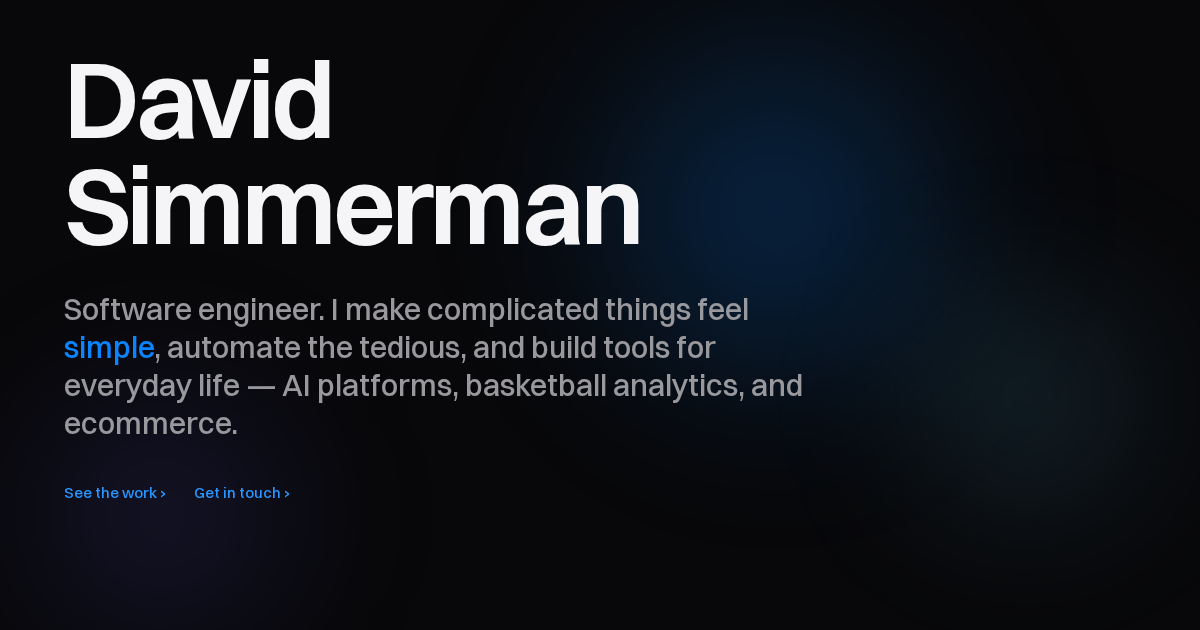
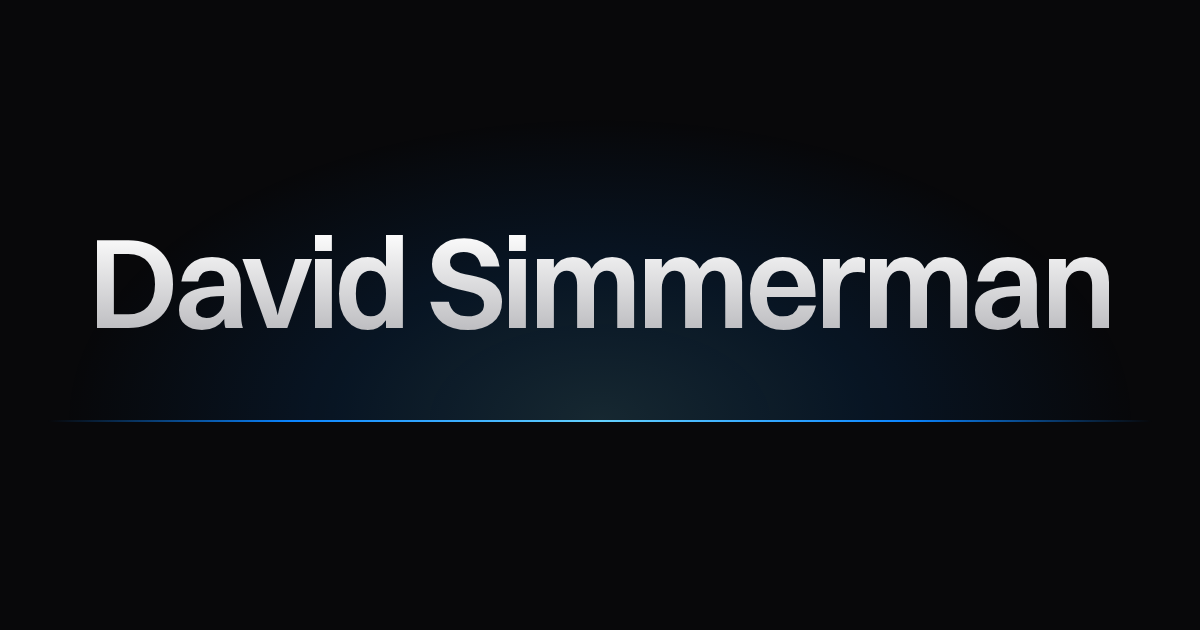
Link preview: animated name over the hero's horizon line
og.gif plays the homepage entrance on a loop, starting on the finished card for apps that
only show the first frame. Generated by scripts/og.mjs; og.png is the matching still.

diff --git a/src/routes/+layout.svelte b/src/routes/+layout.svelte
@@ -94,7 +94,10 @@
 		content="Software engineer. AI platforms, basketball analytics, and one animatronic fish."
 	/>
 	<meta property="og:url" content="https://simmerman.tech" />
-	<meta property="og:image" content="https://simmerman.tech/images/og.png" />
+	<!-- animated where the app plays GIFs (Discord, Slack, Telegram); the rest show frame one,
+	     which is the finished card. Regenerate with `node scripts/og.mjs` -->
+	<meta property="og:image" content="https://simmerman.tech/images/og.gif" />
+	<meta property="og:image:type" content="image/gif" />
 	<meta property="og:image:width" content="1200" />
 	<meta property="og:image:height" content="630" />
 	<meta name="twitter:card" content="summary_large_image" />
